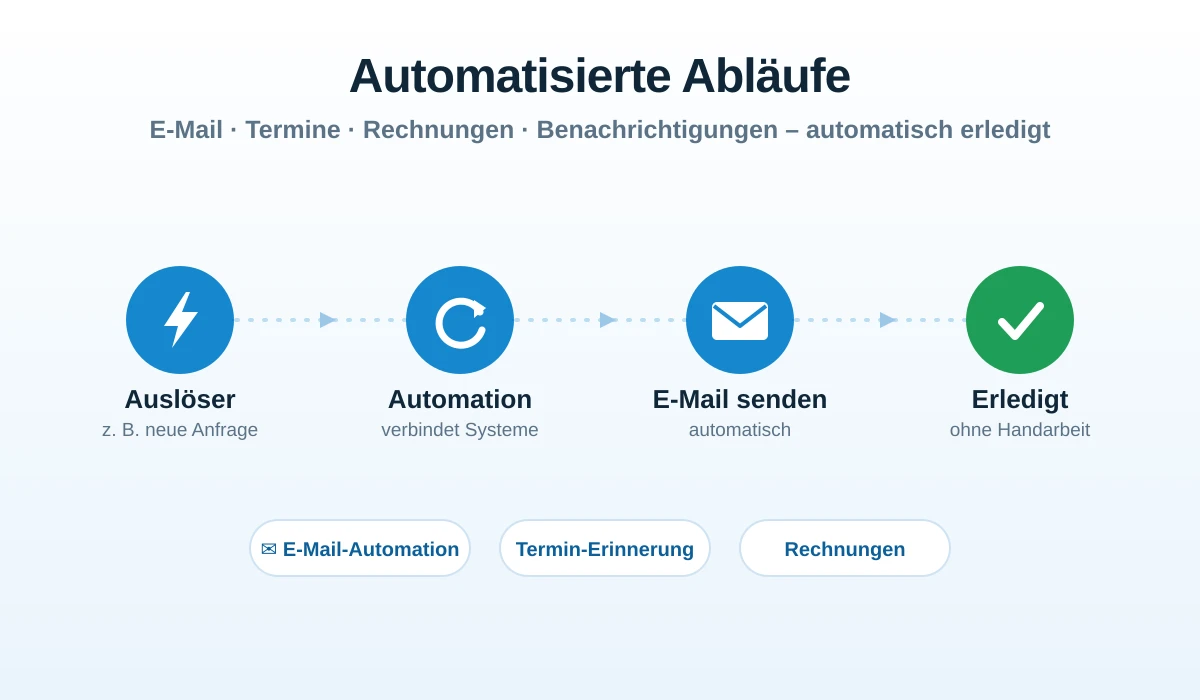
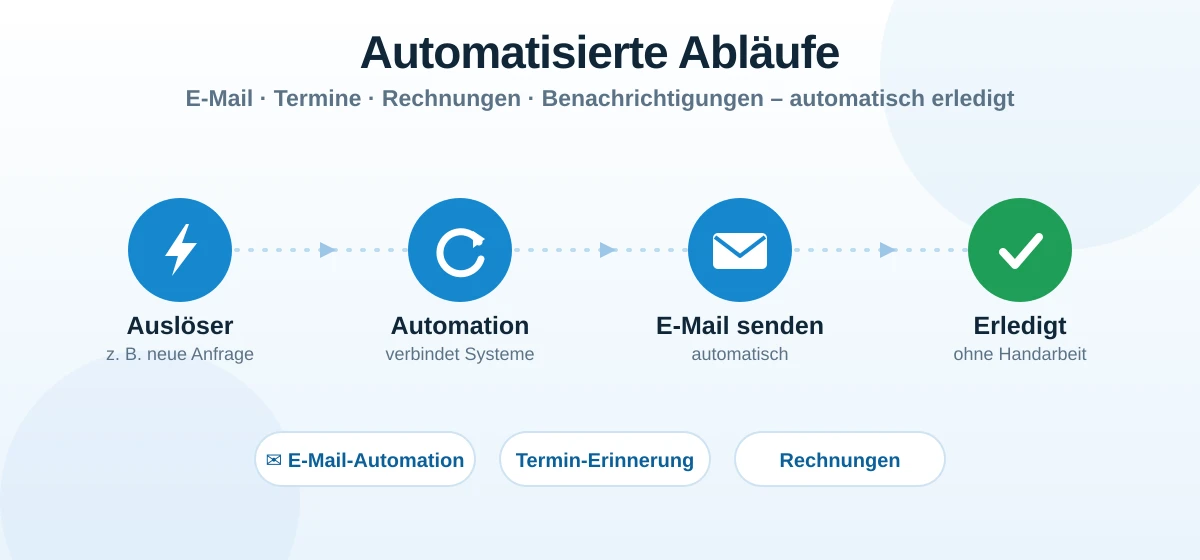
Automations-Grafik kompakter (füllt Fläche, kein Rand oben) + Cache-Bust v2

diff --git a/index.html b/index.html
@@ -86,7 +86,7 @@
           </article>
           <article class="service-card reveal">
             <div class="service-image">
-              <img loading="lazy" decoding="async" class="illu" src="assets/automation-flow.webp" alt="Ablauf einer Automation: Auslöser, Automation, E-Mail senden, erledigt">
+              <img loading="lazy" decoding="async" class="illu" src="assets/automation-flow.webp?v=2" alt="Ablauf einer Automation: Auslöser, Automation, E-Mail senden, erledigt">
             </div>
             <div class="service-content">
               <span class="service-number">02</span>

diff --git a/leistungen.html b/leistungen.html
@@ -36,7 +36,7 @@
       <div class="services-list">
         <article class="service-row reveal"><div class="service-row-image"><img loading="lazy" decoding="async" src="assets/webseiten%20bild%201.webp" alt="KI-Kurse"></div><div class="service-row-copy"><p class="eyebrow">Weiterbildung</p><h2>Zertifizierte KI-Kurse</h2><p>Praxisnahe Weiterbildungen für Unternehmen, Mitarbeitende und Führungskräfte. Verständlich vermittelt und direkt einsetzbar.</p><a class='button' href="zertifizierte-ki-kurse.html">KI-Kurse ansehen</a></div></article>
         <article class="service-row reveal"><div class="service-row-image"><img loading="lazy" decoding="async" src="assets/webseiten%20bild.webp" alt="KI-Beratung"></div><div class="service-row-copy"><p class="eyebrow">Strategie</p><h2>KI-Beratung</h2><p>Wir analysieren Prozesse, identifizieren Potenziale und entwickeln eine individuelle KI-Strategie für mehr Effizienz und Wachstum.</p><a class='button' href="ki-beratung.html">Zur KI-Beratung</a></div></article>
-        <article class="service-row reveal"><div class="service-row-image"><img loading="lazy" decoding="async" class="illu" src="assets/automation-flow.webp" alt="Ablauf einer Workflow-Automation"></div><div class="service-row-copy"><p class="eyebrow">Automatisierung</p><h2>Workflow-Automationen</h2><p>Wir verbinden digitale Systeme und automatisieren wiederkehrende Abläufe, damit Ihr Team Zeit spart und Fehler reduziert.</p><a class='button' href="workflow-automationen.html">Automationen entdecken</a></div></article>
+        <article class="service-row reveal"><div class="service-row-image"><img loading="lazy" decoding="async" class="illu" src="assets/automation-flow.webp?v=2" alt="Ablauf einer Workflow-Automation"></div><div class="service-row-copy"><p class="eyebrow">Automatisierung</p><h2>Workflow-Automationen</h2><p>Wir verbinden digitale Systeme und automatisieren wiederkehrende Abläufe, damit Ihr Team Zeit spart und Fehler reduziert.</p><a class='button' href="workflow-automationen.html">Automationen entdecken</a></div></article>
         <article class="service-row reveal"><div class="service-row-image"><img loading="lazy" decoding="async" src="assets/0b27cf40-c646-4674-bf4a-0cfa3c0defa1.webp" alt="KI im Büroalltag"></div><div class="service-row-copy"><p class="eyebrow">Anwendung</p><h2>KI im Arbeitsalltag</h2><p>Wir zeigen Teams, wie ChatGPT, digitale Assistenten und weitere KI-Tools sicher und produktiv eingesetzt werden.</p><a class='button' href="ki-im-arbeitsalltag.html">Anwendungen kennenlernen</a></div></article>
       </div>
     </div></section>

diff --git a/workflow-automationen.html b/workflow-automationen.html
@@ -22,7 +22,7 @@
 </head>
 <body><header class="site-header"><a class='brand' href="index.html"><img loading="lazy" decoding="async" src="assets/logo%20alpha%20blueprint.webp" alt="Alpha Blueprint"></a><button class="menu-button" type="button" aria-expanded="false" aria-controls="main-navigation"><span></span><span></span><span></span><span class="sr-only">Menü öffnen</span></button><nav id="main-navigation" class="main-nav" aria-label="Hauptnavigation"><a href="index.html">Start</a><a href="leistungen.html">Leistungen</a><a href="ablauf.html">Ablauf</a><a href="faq.html">FAQ</a><a href="ueber-uns.html">Über uns</a><a class="button button-small" href="index.html#kontakt">Erstgespräch</a></nav></header>
 <main class="subpage"><section class="page-hero"><img loading="lazy" decoding="async" src="assets/webseiten%20bild%204.webp?v=2" alt=""><div class="container page-hero-content reveal"><div class="breadcrumb"><a href="index.html">Start</a> / <a href="leistungen.html">Leistungen</a> / Automationen</div><p class="eyebrow">Workflow-Automationen</p><h1>Prozesse effizient automatisieren.</h1><p>Wir automatisieren wiederkehrende Aufgaben und verbinden digitale Systeme intelligent miteinander: für mehr Effizienz, Struktur und Zeitersparnis.</p></div></section>
-<section class="section"><div class="container content-split"><div class="content-copy reveal"><p class="eyebrow">Weniger Handarbeit</p><h2>Digitale Abläufe, die einfach funktionieren</h2><p>Manuelle Aufgaben, doppelte Eingaben und Medienbrüche kosten jeden Tag Zeit. Wir entwickeln Automationen, die bestehende Prozesse spürbar entlasten.</p><ul class="feature-list"><li>CRM- und Kundendaten</li><li>E-Mail-Benachrichtigungen</li><li>Formulare und Dokumente</li><li>Termine und Kalender</li><li>Datenübertragungen</li><li>Reports und Auswertungen</li></ul></div><div class="content-media reveal"><img loading="lazy" decoding="async" class="illu" src="assets/automation-flow.webp" alt="Ablauf einer Workflow-Automation: Auslöser, E-Mail, erledigt"></div></div></section>
+<section class="section"><div class="container content-split"><div class="content-copy reveal"><p class="eyebrow">Weniger Handarbeit</p><h2>Digitale Abläufe, die einfach funktionieren</h2><p>Manuelle Aufgaben, doppelte Eingaben und Medienbrüche kosten jeden Tag Zeit. Wir entwickeln Automationen, die bestehende Prozesse spürbar entlasten.</p><ul class="feature-list"><li>CRM- und Kundendaten</li><li>E-Mail-Benachrichtigungen</li><li>Formulare und Dokumente</li><li>Termine und Kalender</li><li>Datenübertragungen</li><li>Reports und Auswertungen</li></ul></div><div class="content-media reveal"><img loading="lazy" decoding="async" class="illu" src="assets/automation-flow.webp?v=2" alt="Ablauf einer Workflow-Automation: Auslöser, E-Mail, erledigt"></div></div></section>
 <section class="section benefit-section"><div class="container"><div class="section-heading reveal"><p class="eyebrow">Ihre Vorteile</p><h2>Mehr Zeit für wichtige Aufgaben.</h2></div><div class="benefit-grid"><article class="benefit-card reveal"><span>01</span><h3>Weniger Fehler</h3><p>Automatisierte Übergaben reduzieren Übertragungsfehler und vergessene Schritte.</p></article><article class="benefit-card reveal"><span>02</span><h3>Schnellere Prozesse</h3><p>Informationen erreichen automatisch zur richtigen Zeit das richtige System.</p></article><article class="benefit-card reveal"><span>03</span><h3>Skalierbare Abläufe</h3><p>Saubere Workflows wachsen mit Ihrem Unternehmen und schaffen Übersicht.</p></article></div></div></section>
 <section class="section"><div class="container audience-box reveal"><p class="eyebrow">Individuell entwickelt</p><h2>Keine Standardlösung, sondern Ihr Workflow.</h2><p>Wir berücksichtigen bestehende Systeme, Verantwortlichkeiten und Arbeitsweisen. Das Ergebnis ist eine Automation, die sich in Ihren Alltag einfügt.</p><ul class="feature-list"><li>Google Workspace</li><li>Microsoft-Prozesse</li><li>CRM-Systeme</li><li>Verwaltungsabläufe</li><li>Digitale Formulare</li><li>Individuelle Schnittstellen</li></ul></div></section>
 <section class="page-cta"><div class="container reveal"><h2>Welche Abläufe kosten Sie täglich Zeit?</h2><p>Gemeinsam finden wir die Prozesse mit dem größten Automatisierungspotenzial.</p><a class='button' href="index.html#kontakt">Automation besprechen</a></div></section></main>